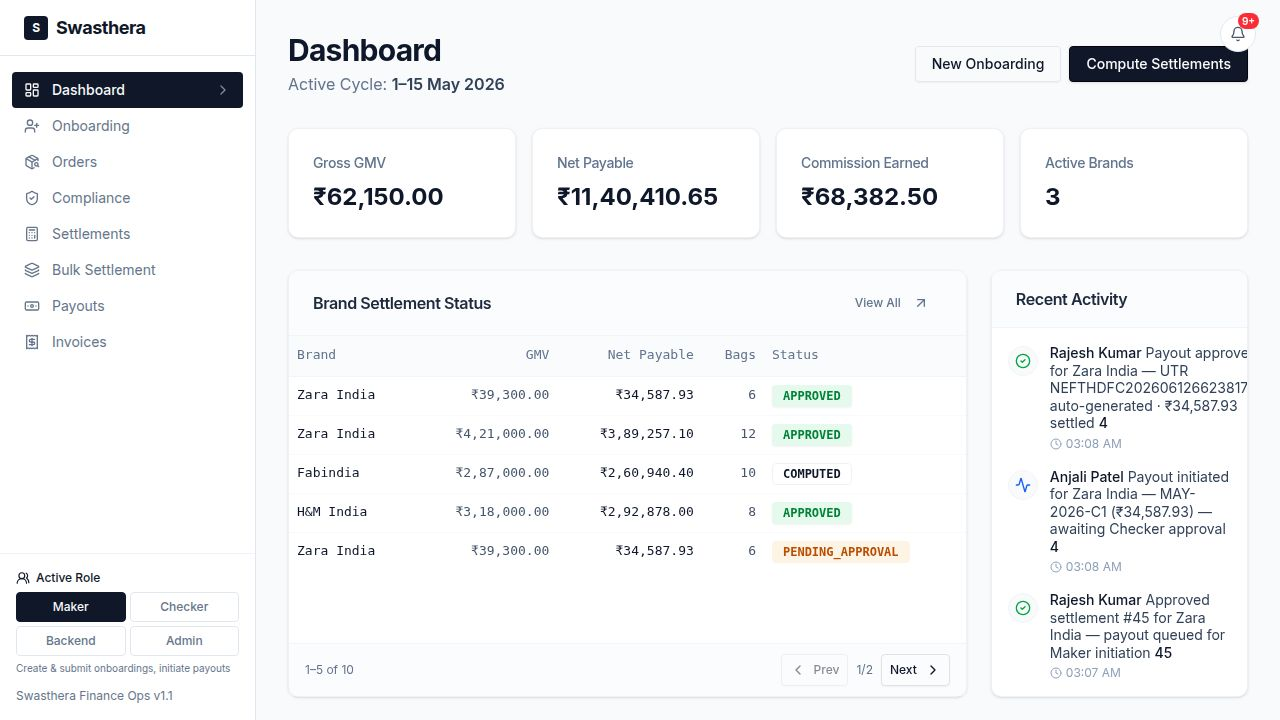
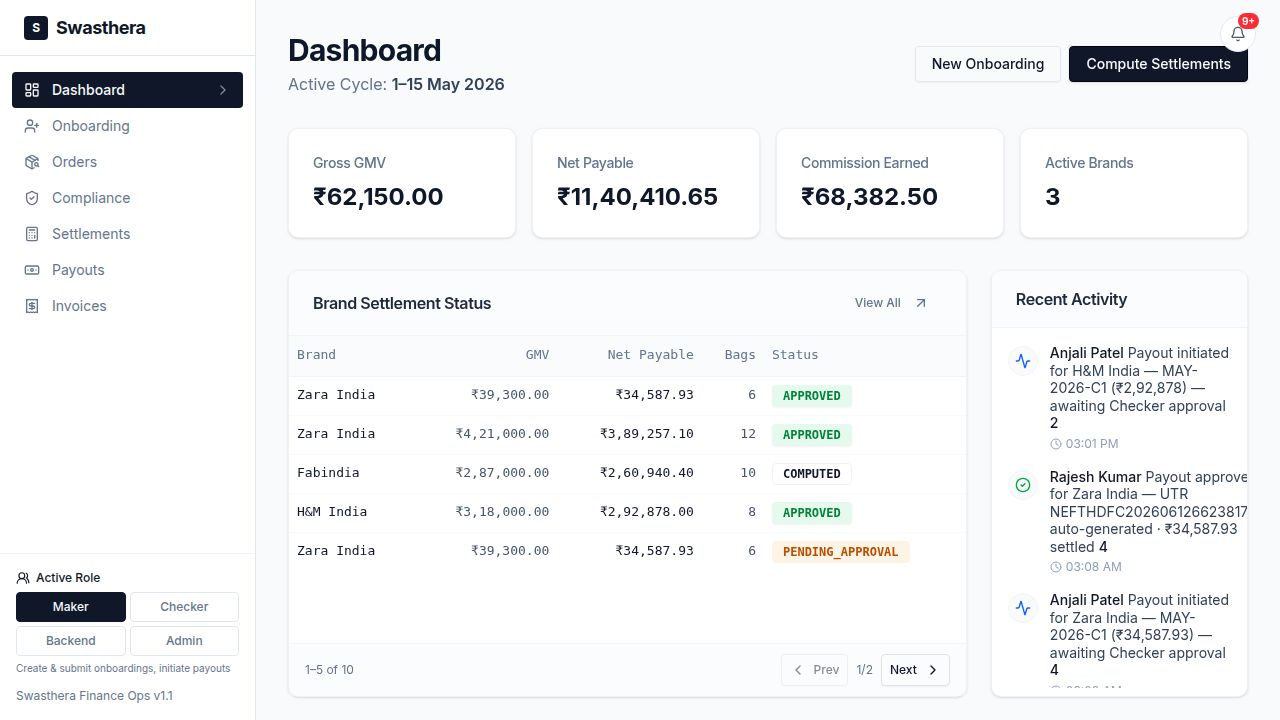
Implement T001–T006 + TCS/TDS reversal parity for Swasthera
T001 – MDR removal everywhere
- Remove mdrCharges from settlementCalculator.ts waterfall
- Zero out mdrCharges/mdrRate in all settlement INSERT paths (single + bulk)
- Remove MDR field from OnboardingForm, OnboardingDetail, SettlementDetail

T002 – Customer invoice fixes
- buildCustomerInvoiceDocument: remove TCS summary line + footer note
- computeCustomerSnapshot: GST type uses company masterGstin prefix vs customer state

T003 – Warehouse-level KYB autofetch
- OnboardingForm + OnboardingDetail: Fetch GSTIN button autofills warehouse fields

T004 – TCS/TDS registers redesign (bag-level drill-down)
- GET /compliance/tcs-records: brand×state groups, IGST vs intrastate split
- GET /compliance/tds-records: brand groups, per-bag + reversal drill-down
- ComplianceRegister.tsx: expandable rows, IGST/Intra columns, bag detail rows

T005 – GST Register tab in Compliance
- GET /compliance/gst-register: per-bag CGST/SGST/IGST breakdown
- New "GST Register" tab with brand filter, summary cards, per-bag table

T006 – Bulk settlement/payout approval
- POST /settlements/bulk/approve: same netPayable <= 0 guard as single-approve
  (BRD §7 Scenario 4) — approve record, skip payout; payoutCreated flag in response
- POST /payouts/bulk/initiate + POST /payouts/bulk/approve
- SettlementList.tsx + PayoutList.tsx: checkboxes + bulk action bars

TCS + TDS reversal parity (transactions.ts + compliance.ts)
- applyTaxReversal: both taxes handled symmetrically — negative TCS entry written
[…]

diff --git a/artifacts/api-server/src/routes/compliance.ts b/artifacts/api-server/src/routes/compliance.ts
@@ -2,7 +2,7 @@ import { Router } from "express";
 import { db } from "@workspace/db";
 import { tcsRecordsTable, tdsRecordsTable, bagsTable, activityTable, settlementsTable, payoutsTable, onboardingsTable, settlementAdjustmentsTable, invoicesTable } from "@workspace/db";
 import { eq, and, sql, inArray, like } from "drizzle-orm";
-import { reversalDeadline, isPastReversalDeadline, canReverseTDS, transactionPeriod } from "../services/tdsReversalService";
+import { reversalDeadline, isPastReversalDeadline, canReverseTDS, transactionPeriod, classifyCancellation } from "../services/tdsReversalService";
 import { authorize } from "../middlewares/rbac";
 
 const router = Router();
@@ -80,7 +80,7 @@ const STATE_NAMES: Record<string, string> = {
 // GET /compliance/tcs-records — bag-level view aggregated by brand + warehouse state.
 // For each brand-state pair: IGST bags (interstate) vs intrastate bags broken out.
 // IGST = stateCode (ship-from) ≠ customerStateCode (place of supply).
-// TCS has no reversal mechanism per BRD; only TDS is reversible.
+// TCS reversal uses the same deadline rules as TDS (7th of following month).
 router.get("/compliance/tcs-records", async (req, res) => {
   try {
     const month = (req.query.month as string) || "May";
@@ -478,6 +478,37 @@ router.post("/compliance/reversal", authorize(["backend", "admin"]), async (req,
     const tcsAmt = parseFloat(bag.tcsAmount);
     if (tdsAmt === 0 && tcsAmt === 0) {
       return res.status(400).json({ error: "No TDS or TCS accrual found for this bag to reverse" });
+    }
+
+    // Enforce the canonical reversal path: only bags that have already completed
+    // the order cancel/return flow may use this endpoint. Active orders must go
+    // through POST /transactions/:orderId/cancel (or /return/accept) which enforces
+    // scenario classification, credit-note generation, and brand acceptance atomically.
+    const cancellationCase = classifyCancellation(bag.deliveryDate, bag.windowExpiryDate);
+    if (bag.reversalStatus === "WINDOW_EXPIRED_REJECTED") {
+      return res.status(400).json({
+        error: `Bag ${bagId} was rejected due to an expired return window (Scenario 3 — BRD §5.4). No tax reversal can be logged.`,
+        reversalStatus: bag.reversalStatus,
+      });
+    }
+    if (bag.reversalStatus === "RETURN_INITIATED") {
+      return res.status(400).json({
+        error: `Bag ${bagId} has a return in progress. Accept or reject the return from the Orders page before logging a tax reversal.`,
+        redirectHint: "/orders",
+        reversalStatus: bag.reversalStatus,
+      });
+    }
+    if (!bag.reversalStatus && cancellationCase !== "PAST_RETURN_WINDOW") {
+      // Active order that hasn't gone through the cancel/return flow yet.
+      // Must use the Orders page to get credit-note generation + scenario enforcement.
+      const label = cancellationCase === "PRE_DELIVERY"
+        ? "not yet delivered"
+        : "within return window";
+      return res.status(400).json({
+        error: `Bag ${bagId} is ${label} and has not been cancelled or returned yet. Use the Orders page to initiate the cancellation/return flow — credit-note generation and scenario rules are enforced there.`,
+        redirectHint: "/orders",
+        cancellationCase,
+      });
     }
 
     // Eligibility derives strictly from bag data — client-supplied month/year are

diff --git a/artifacts/swasthera/src/pages/ComplianceRegister.tsx b/artifacts/swasthera/src/pages/ComplianceRegister.tsx
@@ -200,7 +200,7 @@ export function ComplianceRegister() {
   const { toast } = useToast();
   const queryClient = useQueryClient();
 
-  // TDS-only reversal dialog
+  // TDS/TCS reversal dialog (compliance-page manual entry for already-cancelled/returned bags)
   const [showReversalDialog, setShowReversalDialog] = useState(false);
   const [reversalLoading, setReversalLoading] = useState(false);
   const [reversalForm, setReversalForm] = useState({ bagId: "", reason: "" });
@@ -326,7 +326,7 @@ export function ComplianceRegister() {
 
       if (!res.ok) throw new Error(data.error ?? "Reversal failed");
 
-      toast({ title: "TDS Reversal logged", description: data.message });
+      toast({ title: "TDS/TCS Reversal logged", description: data.message });
       setShowReversalDialog(false);
       setReversalForm({ bagId: "", reason: "" });
       queryClient.invalidateQueries({ queryKey: summaryKey });
@@ -432,7 +432,7 @@ export function ComplianceRegister() {
             </SelectContent>
           </Select>
           <Button variant="outline" onClick={() => setShowReversalDialog(true)}>
-            <RotateCcw className="mr-2 h-4 w-4" /> Log TDS Reversal
+            <RotateCcw className="mr-2 h-4 w-4" /> Log TDS/TCS Reversal
           </Button>
         </div>
       </div>
@@ -466,7 +466,7 @@ export function ComplianceRegister() {
                   {s.tcsAccrued > s.tcsPaid ? "Unpaid — remit to govt" : "Fully paid"}
                 </span>
               </div>
-              <div className="text-xs text-slate-400 mt-0.5 italic">No reversal mechanism (§52 GST)</div>
+              <div className="text-xs text-slate-400 mt-0.5 italic">Reversible via GSTR-8 amendment within deadline</div>
             </CardContent>
           </Card>
 
@@ -1151,20 +1151,20 @@ export function ComplianceRegister() {
         </TabsContent>
       </Tabs>
 
-      {/* TDS-Only Reversal Dialog */}
+      {/* TDS/TCS Reversal Dialog */}
       <Dialog open={showReversalDialog} onOpenChange={setShowReversalDialog}>
         <DialogContent className="sm:max-w-md">
           <DialogHeader>
-            <DialogTitle>Log TDS Reversal</DialogTitle>
+            <DialogTitle>Log TDS/TCS Reversal</DialogTitle>
             <DialogDescription>
-              Only TDS (Section 194-O) can be reversed. TCS reversal does not apply — TCS
-              is remitted directly to the government and cannot be credited back to the brand.
+              For bags already cancelled or returned through the Orders page. Both TDS (§194-O IT Act)
+              and TCS (§52 GST / GSTR-8 amendment) are reversed together using the same deadline.
             </DialogDescription>
           </DialogHeader>
           <div className="space-y-4 py-2">
             <div className="rounded-lg border border-blue-100 bg-blue-50/60 p-3 text-xs text-blue-700 space-y-1">
-              <p className="font-medium flex items-center gap-1.5"><Info className="h-3.5 w-3.5" /> Eligibility is determined by bag date</p>
-              <p>The TDS deposit deadline (7th of the following month) is enforced server-side from the bag's invoice date. If the deadline has passed, the amount will be recorded as a carry-forward adjustment for the next settlement cycle instead of a reversal.</p>
+              <p className="font-medium flex items-center gap-1.5"><Info className="h-3.5 w-3.5" /> Bag must already be cancelled or returned</p>
+              <p>Use the Orders page to cancel or return active orders first — it enforces credit-note generation and scenario rules. The 7th-of-following-month deadline is enforced server-side. Past the deadline, amounts are recorded as carry-forward adjustments for the next settlement cycle.</p>
             </div>
             <div className="space-y-1.5">
               <label className="text-sm font-medium text-slate-700">Bag ID</label>